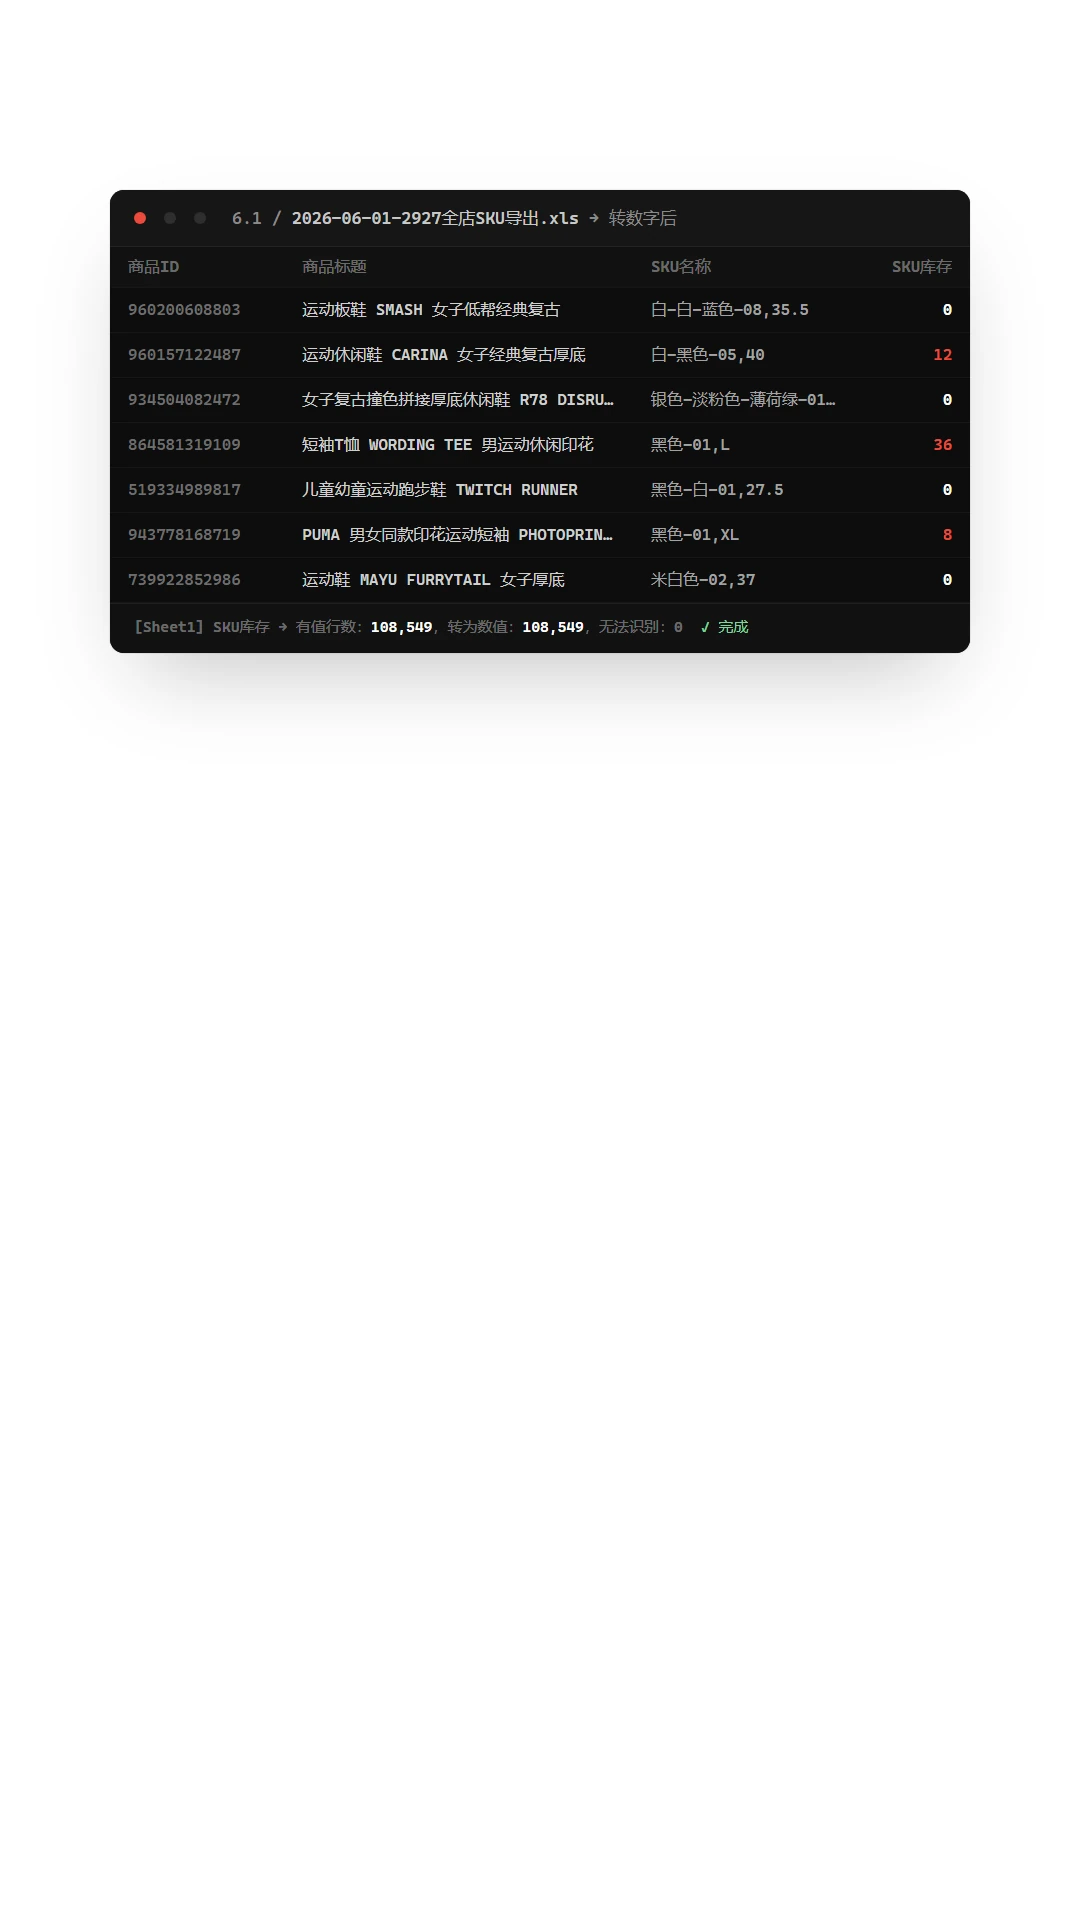
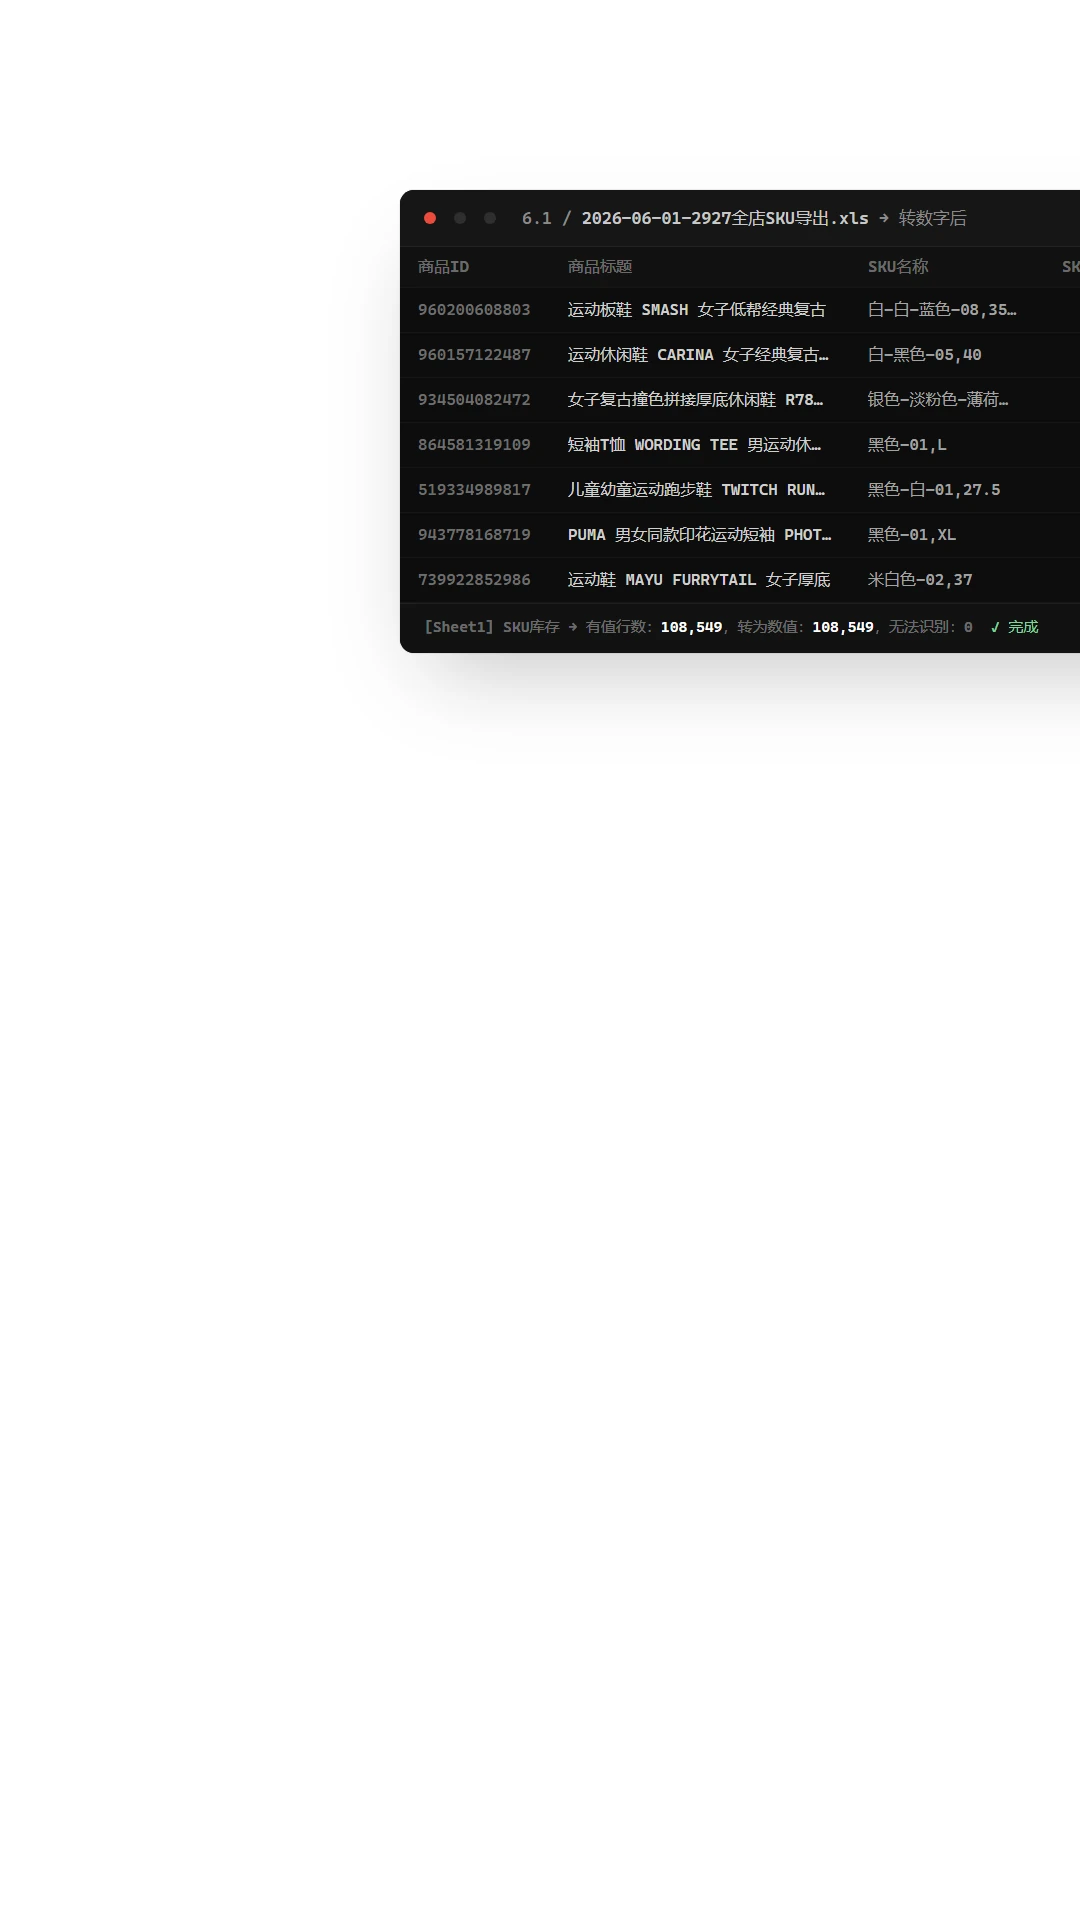
Hero slide 1: Victoria Harbour portrait (landscape + phone crop); table poster stays on Ops Autopilot

Changed region(s): [[0.0917, 0.0938, 0.7639, 0.375], [0.7944, 0.0938, 1.0, 0.375], [0.7639, 0.3125, 0.7944, 0.3438]]

diff --git a/tools/posters/claude-setup-kit.html b/tools/posters/claude-setup-kit.html
@@ -9,12 +9,12 @@ html,body{margin:0;width:1920px;height:1080px;overflow:hidden;background:#fff;fo
 .stage{position:relative;width:1920px;height:1080px}
 /* soft light from the top-left so the window sits on something, not in a void */
 .stage::before{content:none}
-.win{position:absolute;left:580px;top:104px;width:760px;border-radius:14px;background:#0d0d0d;box-shadow:0 40px 90px -30px #00000040,0 0 0 1px #00000010;overflow:hidden}
+.win{position:absolute;left:1180px;top:104px;width:1000px;border-radius:14px;background:#0d0d0d;box-shadow:0 40px 90px -30px #00000040,0 0 0 1px #00000010;overflow:hidden}
 .bar{height:56px;display:flex;align-items:center;gap:18px;padding:0 24px;background:#161616;border-bottom:1px solid #ffffff0f}
 .dot{width:12px;height:12px;border-radius:50%;background:#2e2e2e}
 .dot:first-child{background:var(--red)}
 .tab{margin-left:8px;font:500 17px/1 var(--mono);color:#8a8a8a;letter-spacing:.01em}
-pre{margin:0;padding:30px 38px 34px;font:500 18px/1.55 var(--mono);color:#8c8c8c;white-space:pre;tab-size:2}
+pre{margin:0;padding:34px 42px 38px;font:500 20px/1.55 var(--mono);color:#8c8c8c;white-space:pre;tab-size:2}
 .c{color:#ffffff55} .b{color:#ffffff} .r{color:var(--red)} .g{color:#7fd59a} .k{color:#eaeaea}
 .hl{color:var(--red)}
 .box{display:block;border:1.5px solid #ffffff24;border-radius:8px;padding:18px 26px 22px;margin-bottom:26px;color:#bdbdbd}
@@ -23,7 +23,7 @@ pre{margin:0;padding:30px 38px 34px;font:500 18px/1.55 var(--mono);color:#8c8c8c
 .noise{position:absolute;inset:0;background:url(../../assets/noise.png) repeat;background-size:18rem;opacity:.22;mix-blend-mode:multiply;pointer-events:none}
 .vig{position:absolute;inset:0;background:radial-gradient(ellipse 80% 80% at 50% 50%,transparent 60%,#00000022 100%);pointer-events:none}
 /* portrait variant for phones (rendered at 1080x1920) */
-@media (orientation:portrait){html,body{width:1080px;height:1920px} .stage{width:1080px;height:1920px} .win{left:120px;top:190px;width:840px} pre{font-size:22px;padding:36px 44px 40px} .bar{height:64px} .tab{font-size:20px} .box{padding:22px 30px 26px}}
+@media (orientation:portrait){html,body{width:1080px;height:1920px} .stage{width:1080px;height:1920px} .win{left:420px;top:190px;width:900px} pre{font-size:22px;padding:36px 44px 40px} .bar{height:64px} .tab{font-size:20px} .box{padding:22px 30px 26px}}
 </style>
 <div class="stage">
   <div class="win">

diff --git a/tools/posters/ops-autopilot.html b/tools/posters/ops-autopilot.html
@@ -7,7 +7,7 @@
 :root{--onyx:#131313;--ala:#eaeaea;--red:#eb4b3d;--mono:"Cascadia Mono","JetBrains Mono","Consolas","Microsoft YaHei UI",monospace}
 html,body{margin:0;width:1920px;height:1080px;overflow:hidden;background:#fff;font-family:"BDO Grotesk",sans-serif;color:var(--ala)}
 .stage{position:relative;width:1920px;height:1080px}
-.win{position:absolute;left:470px;top:104px;width:980px;border-radius:14px;background:#0d0d0d;box-shadow:0 40px 90px -30px #00000040,0 0 0 1px #00000010;overflow:hidden}
+.win{position:absolute;left:1120px;top:104px;width:1100px;border-radius:14px;background:#0d0d0d;box-shadow:0 40px 90px -30px #00000040,0 0 0 1px #00000010;overflow:hidden}
 .bar{height:56px;display:flex;align-items:center;gap:18px;padding:0 24px;background:#161616;border-bottom:1px solid #ffffff0f}
 .dot{width:12px;height:12px;border-radius:50%;background:#2e2e2e}
 .dot:first-child{background:var(--red)}
@@ -23,7 +23,7 @@ tr.hot td.stk{color:var(--red)}
 .foot b{color:#fff;font-weight:500}
 .foot .ok{color:#7fd59a}
 /* portrait variant for phones (rendered at 1080x1920) */
-@media (orientation:portrait){html,body{width:1080px;height:1920px} .stage{width:1080px;height:1920px} .win{left:110px;top:190px;width:860px} th:nth-child(n+5),td:nth-child(n+5),col:nth-child(n+5){display:none} .foot{white-space:nowrap;overflow:hidden;text-overflow:ellipsis;display:block} .foot .ok{margin-left:18px}}
+@media (orientation:portrait){html,body{width:1080px;height:1920px} .stage{width:1080px;height:1920px} .win{left:400px;top:190px;width:960px} .foot{white-space:nowrap;overflow:hidden;text-overflow:ellipsis;display:block} .foot .ok{margin-left:18px}}
 </style>
 <div class="stage">
   <div class="win">

diff --git a/index.html b/index.html
@@ -124,7 +124,7 @@
     <div class="home-hero__media" aria-hidden="true">
       <div class="home-hero__image-stack" data-hero-parallax-image>
         <div class="home-hero__slides">
-          <div class="home-hero__slide is--current" data-hero-slide data-index="0" data-tone="light" data-href="work/claude-setup-kit.html data-name="Claude Setup Kit">
+          <div class="home-hero__slide is--current" data-hero-slide data-index="0" data-href="work/claude-setup-kit.html data-name="Claude Setup Kit">
             <div class="home-hero__slide-inner" data-hero-slide-inner>
               <picture><source media="(max-width:767px)" srcset="assets/work/claude-setup-kit-hero-m.webp"><img class="home-hero__image" src="assets/work/claude-setup-kit-hero.webp" alt="" width="1920" height="1080" loading="eager" decoding="async" data-hero-work-image="primary"></picture>
               <img class="home-hero__image home-hero__image--hover" src="assets/work/claude-setup-kit-hero-hover.webp" alt="" width="1920" height="1080" loading="lazy" decoding="async" data-hero-work-image="hover">
